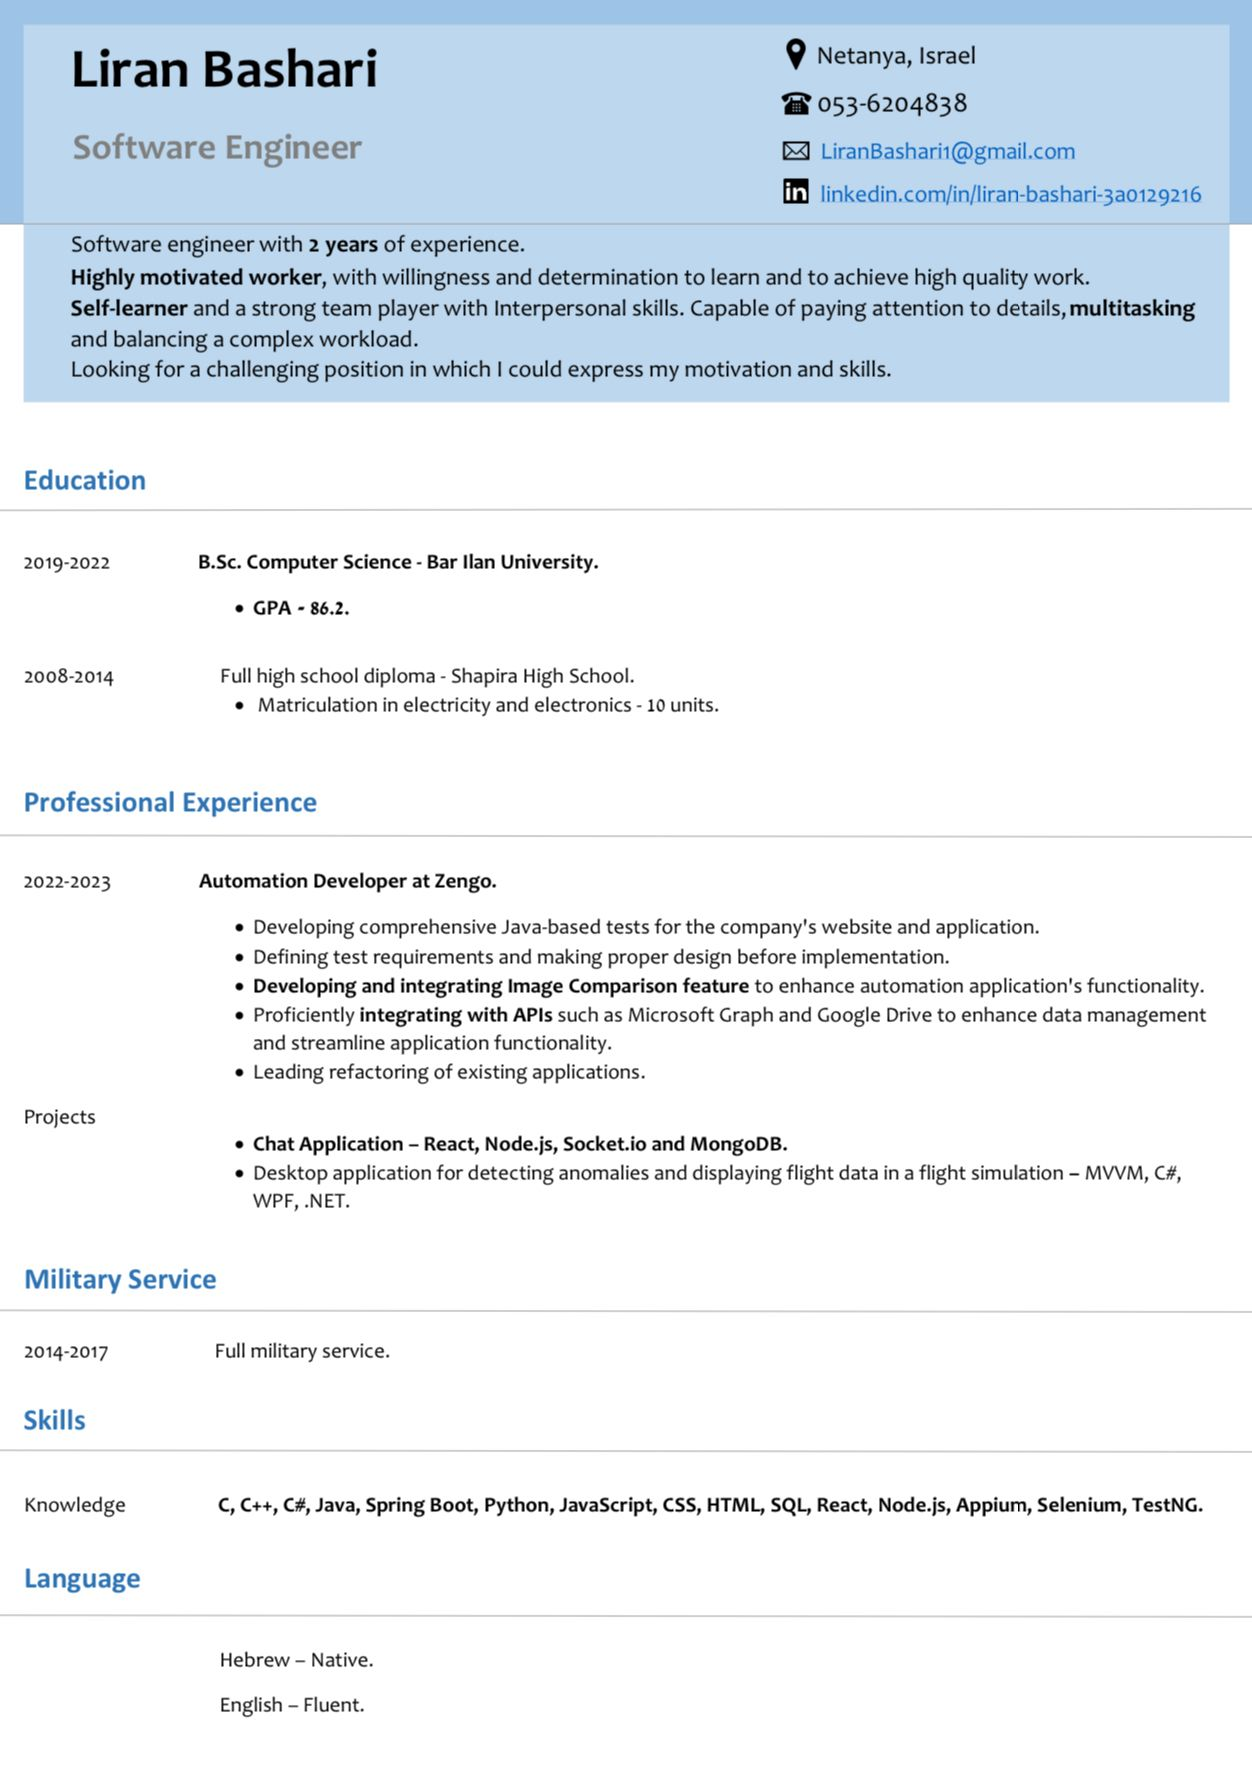
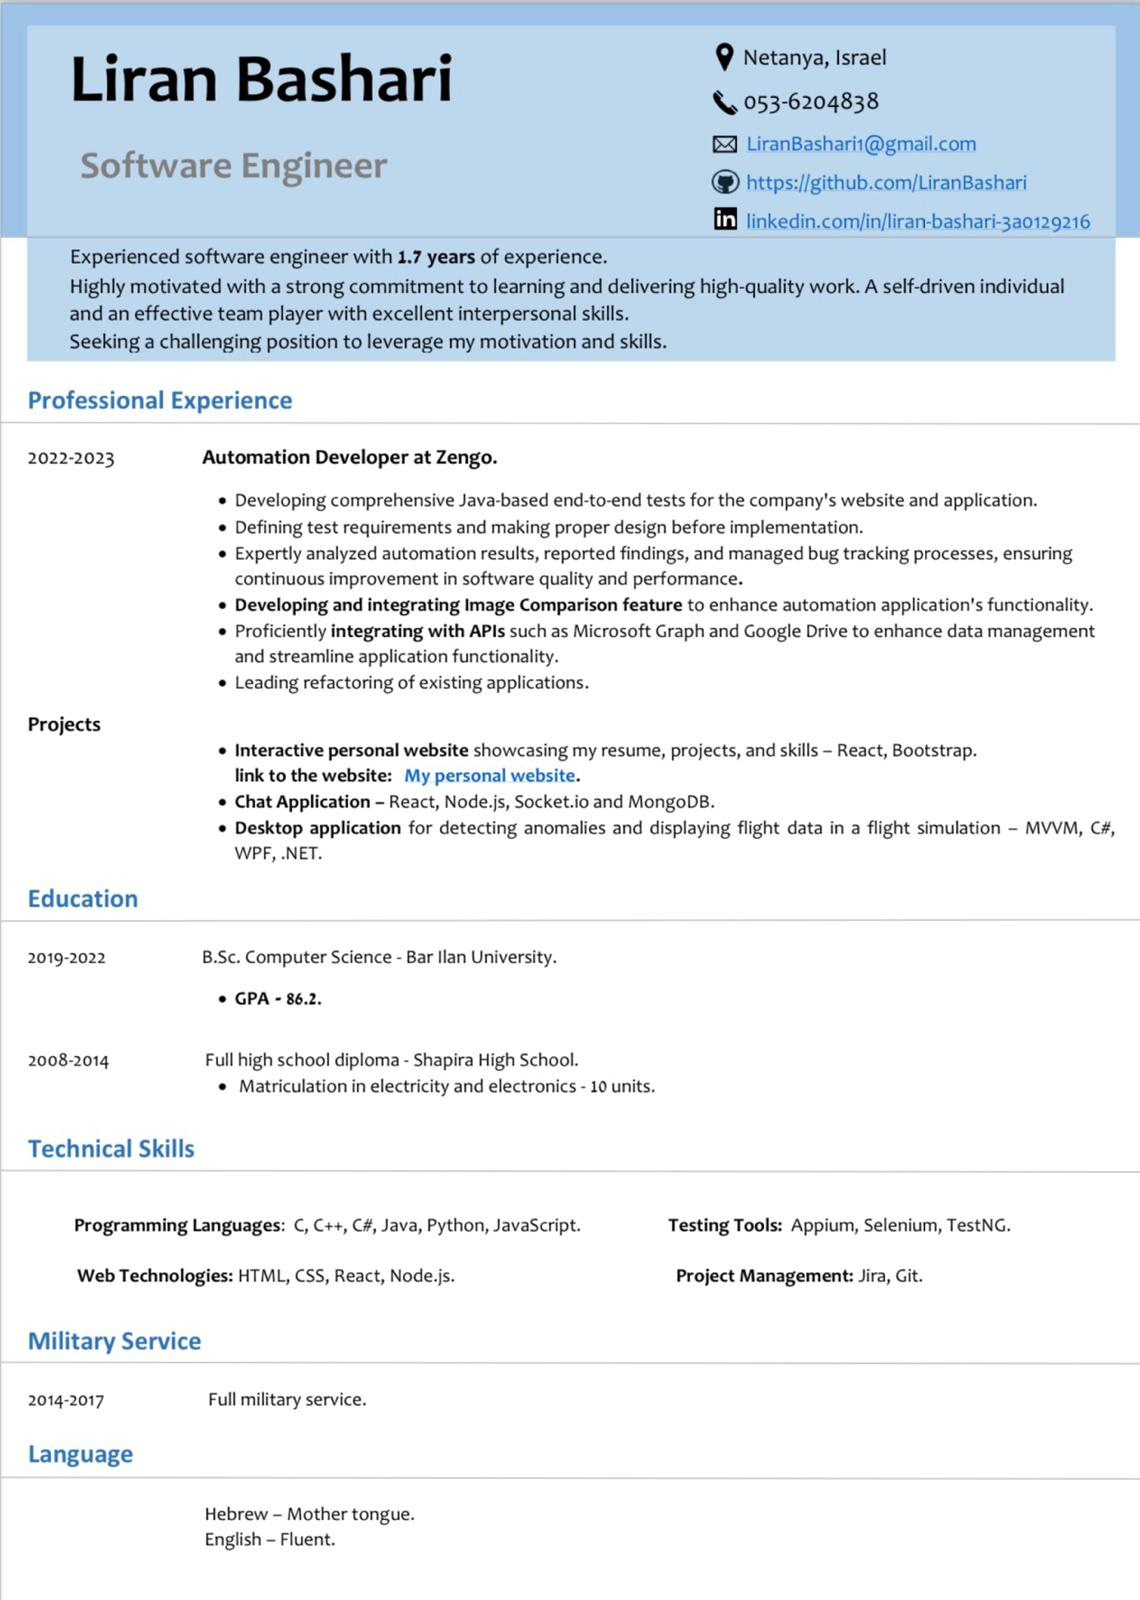
the project is done!

diff --git a/src/pages/Home.jsx b/src/pages/Home.jsx
@@ -18,11 +18,28 @@ const Home = () => {
               <FontAwesomeIcon icon={faUser} className="mr-3" /> About Me
             </h2>
             <h5 className='pt-3 text-white' style={{ fontWeight: 400, fontSize: '22px', lineHeight: '1.8', overflowWrap: 'break-word'}}>
-              Software engineer with 2 years of experience.<br />
-              Highly motivated worker, with willingness and determination to learn and to achieve high-quality work.<br />
-              Self-learner and a strong team player with Interpersonal skills. Capable of paying attention to details, multitasking and balancing a complex workload.<br />
-              Looking for a challenging position in which I could express my motivation and skills.
+              Experienced software engineer with 1.7 years of experience.<br />
+              Highly motivated with a strong commitment to learning and delivering high-quality work. A self-driven individual
+              and an effective team player with excellent interpersonal skills.<br />
+              Seeking a challenging position to leverage my motivation and skills.
             </h5>
+          </div>
+        </div>
+
+        <div className="row">
+          <div className="col-md-10 offset-md-2 pt-3 pb-5">
+            <h2 className="mb-3 text-white" style={{ fontWeight: 500, fontSize: '40px' }}>
+              <FontAwesomeIcon icon={faBriefcase} className="mr-3" /> Professional Experience
+            </h2>
+            <p className="mb-0 text-white" style={{ fontWeight: 300, lineHeight: '1.6' }}>
+              <span style={{ fontWeight: 500, fontSize: '25px' }}>Automation Developer at Zengo.</span><br />
+              <span className="me-4 align-top" style={{ fontSize: '20px' }}>• Developing comprehensive Java-based tests for the company's website and application.</span><br />
+              <span className="me-4 align-top" style={{ fontSize: '20px' }}>• Defining test requirements and making proper design before implementation.</span><br />
+              <span className="me-4 align-top" style={{ fontSize: '20px' , overflowWrap: 'break-word'}}>• Expertly analyzed automation results, reported findings, and managed bug tracking processes, ensuringcontinuous improvement in software quality and performance.</span><br />
+              <span className="me-4 align-top" style={{ fontSize: '20px' }}>• Developing and integrating Image Comparison feature to enhance automation application's functionality.</span><br />
+              <span className="me-4 align-top" style={{ fontSize: '20px', overflowWrap: 'break-word'}}>• Proficiently integrating with APIs such as Microsoft Graph and Google Drive to enhance data management and streamline application functionality.</span><br />
+              <span className="me-4 align-top" style={{ fontSize: '20px' }}>• Leading refactoring of existing applications.</span>
+            </p>
           </div>
         </div>
 
@@ -34,22 +51,6 @@ const Home = () => {
             <p className="mb-0 text-white" style={{ fontWeight: 300, lineHeight: '1.6' }}>
               <span style={{ fontSize: '20px' }}>B.Sc. Computer Science | Bar Ilan University.</span><br />
               <span className="me-4 align-top" style={{ fontSize: '20px' }}>• GPA - 86.2.</span>
-            </p>
-          </div>
-        </div>
-
-        <div className="row">
-          <div className="col-md-10 offset-md-2 pt-5 pb-5">
-            <h2 className="mb-3 text-white" style={{ fontWeight: 500, fontSize: '40px' }}>
-              <FontAwesomeIcon icon={faBriefcase} className="mr-3" /> Professional Experience
-            </h2>
-            <p className="mb-0 text-white" style={{ fontWeight: 300, lineHeight: '1.6' }}>
-              <span style={{ fontWeight: 500, fontSize: '25px' }}>Automation Developer at Zengo.</span><br />
-              <span className="me-4 align-top" style={{ fontSize: '20px' }}>• Developing comprehensive Java-based tests for the company's website and application.</span><br />
-              <span className="me-4 align-top" style={{ fontSize: '20px' }}>• Defining test requirements and making proper design before implementation.</span><br />
-              <span className="me-4 align-top" style={{ fontSize: '20px' }}>• Developing and integrating Image Comparison feature to enhance automation application's functionality.</span><br />
-              <span className="me-4 align-top" style={{ fontSize: '20px', overflowWrap: 'break-word'}}>• Proficiently integrating with APIs such as Microsoft Graph and Google Drive to enhance data management and streamline application functionality.</span><br />
-              <span className="me-4 align-top" style={{ fontSize: '20px' }}>• Leading refactoring of existing applications.</span>
             </p>
           </div>
         </div>

diff --git a/src/pages/Contact.jsx b/src/pages/Contact.jsx
@@ -9,40 +9,54 @@ const Contact = () => {
     <div>
       <Navbar backgroundColor="bg-dark"/>
       <div className="container">
-        <h1 className='text-white pt-5 display-1 text-center' style={{ marginLeft: '-20vh' }}>
-          <FontAwesomeIcon icon={faEnvelope} className="mr-3"/> Contact Me
+        <h1 className='text-white pt-5 display-1 text-center'>
+          <FontAwesomeIcon icon={faEnvelope} className="mr-3" style={{ marginBottom: '-0.1em' }}/> Contact Me
         </h1>
         <br/>
         <div className="row mt-5">
           <div className="col-md-4 offset-md-2 pt-3 pr-md-4">
-            <h3 className="text-white display-5">
-              <FontAwesomeIcon icon={faPhoneAlt} className="mr-3"/> Phone
+            <h3 className="text-white display-6 text-center">
+              <FontAwesomeIcon icon={faPhoneAlt} className="mr-3" style={{ transform: 'scaleX(-1)' }}/> Phone
             </h3>
           </div>
           <div className="col-md-6 pt-3">
-            <p className="text-white display-5">053-6204838</p>
+            <p className="text-white display-6">053-6204838</p>
           </div>
         </div>
+
         <div className="row mt-5">
           <div className="col-md-4 offset-md-2 pt-3 pr-md-4">
-            <h3 className="text-white display-5">
+            <h3 className="text-white display-6 text-center">
+              <FontAwesomeIcon icon={faEnvelope} className="mr-3"/> Email
+            </h3>
+          </div>
+          <div className="col-md-6 pt-3">
+            <p className="text-white display-6">liranbashari1@gmail.com</p>
+          </div>
+        </div>
+
+        <div className="row mt-5">
+          <div className="col-md-4 offset-md-2 pt-3 pr-md-4">
+            <h3 className="text-white display-6 text-center">
               <FontAwesomeIcon icon={faGithubSquare} className="mr-3"/> GitHub
             </h3>
           </div>
           <div className="col-md-6 pt-3">
-            <a href="https://github.com/LiranBashari" className="text-white display-5" style={{ display: 'inline-block', whiteSpace: 'nowrap' }}>My GitHub</a>
+            <a href="https://github.com/LiranBashari" className="text-white display-6" style={{ display: 'inline-block', whiteSpace: 'nowrap' }}>My GitHub</a>
           </div>
         </div>
+
         <div className="row mt-5">
           <div className="col-md-4 offset-md-2 pt-3 pr-md-4">
-            <h3 className="text-white display-5">
+            <h3 className="text-white display-6 text-center">
               <FontAwesomeIcon icon={faLinkedin} className="mr-3"/> LinkedIn
             </h3>
           </div>
           <div className="col-md-6 pt-3 pb-5">
-            <a href="https://www.linkedin.com/in/liran-bashari-3a0129216/" className="text-white display-5" style={{ display: 'inline-block', whiteSpace: 'nowrap' }}>My LinkedIn</a>
+            <a href="https://www.linkedin.com/in/liran-bashari-3a0129216/" className="text-white display-6" style={{ display: 'inline-block', whiteSpace: 'nowrap' }}>My LinkedIn</a>
           </div>
         </div>
+
       </div>
     </div>
   );
